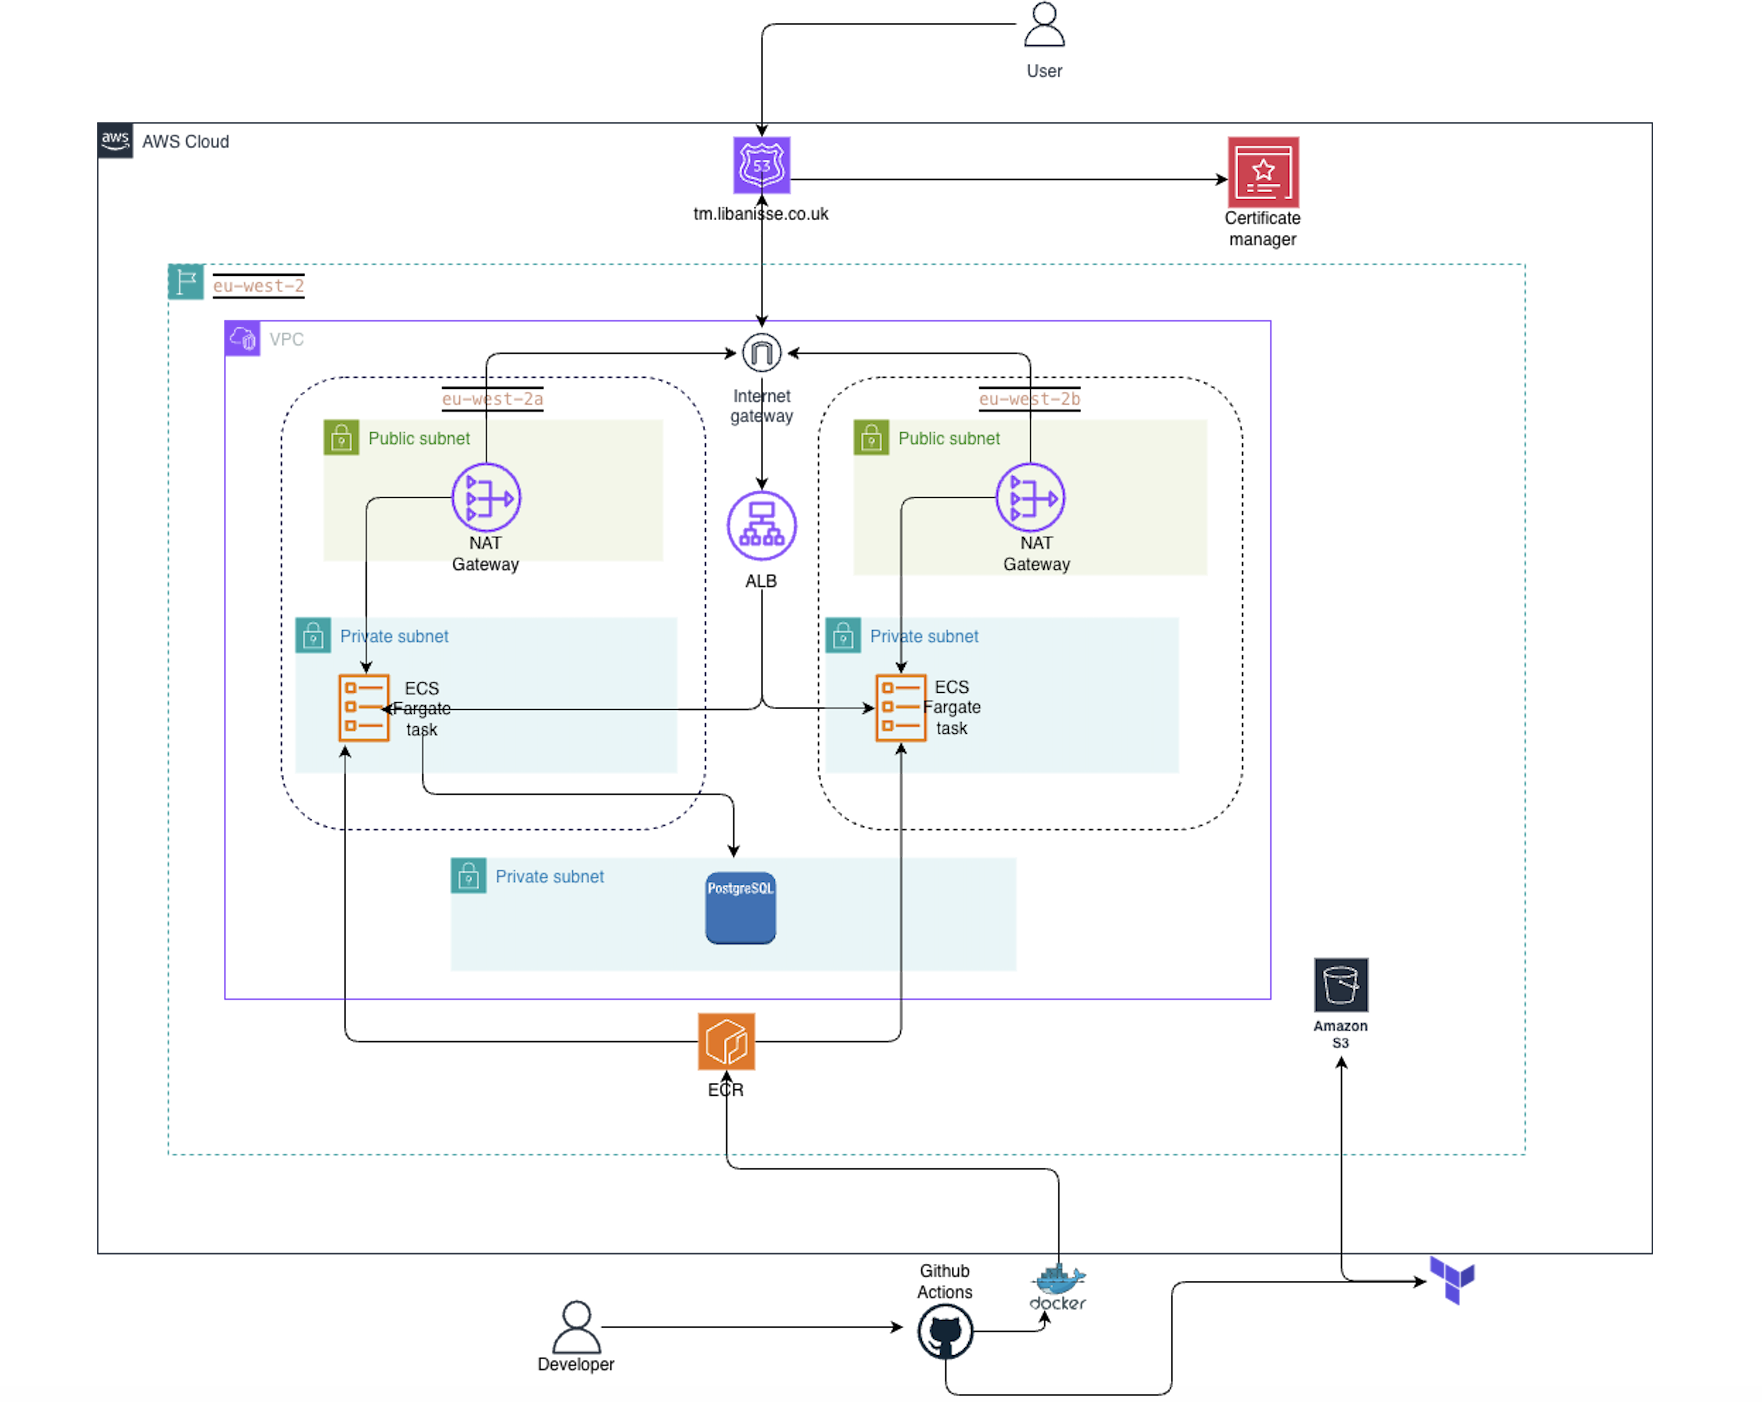
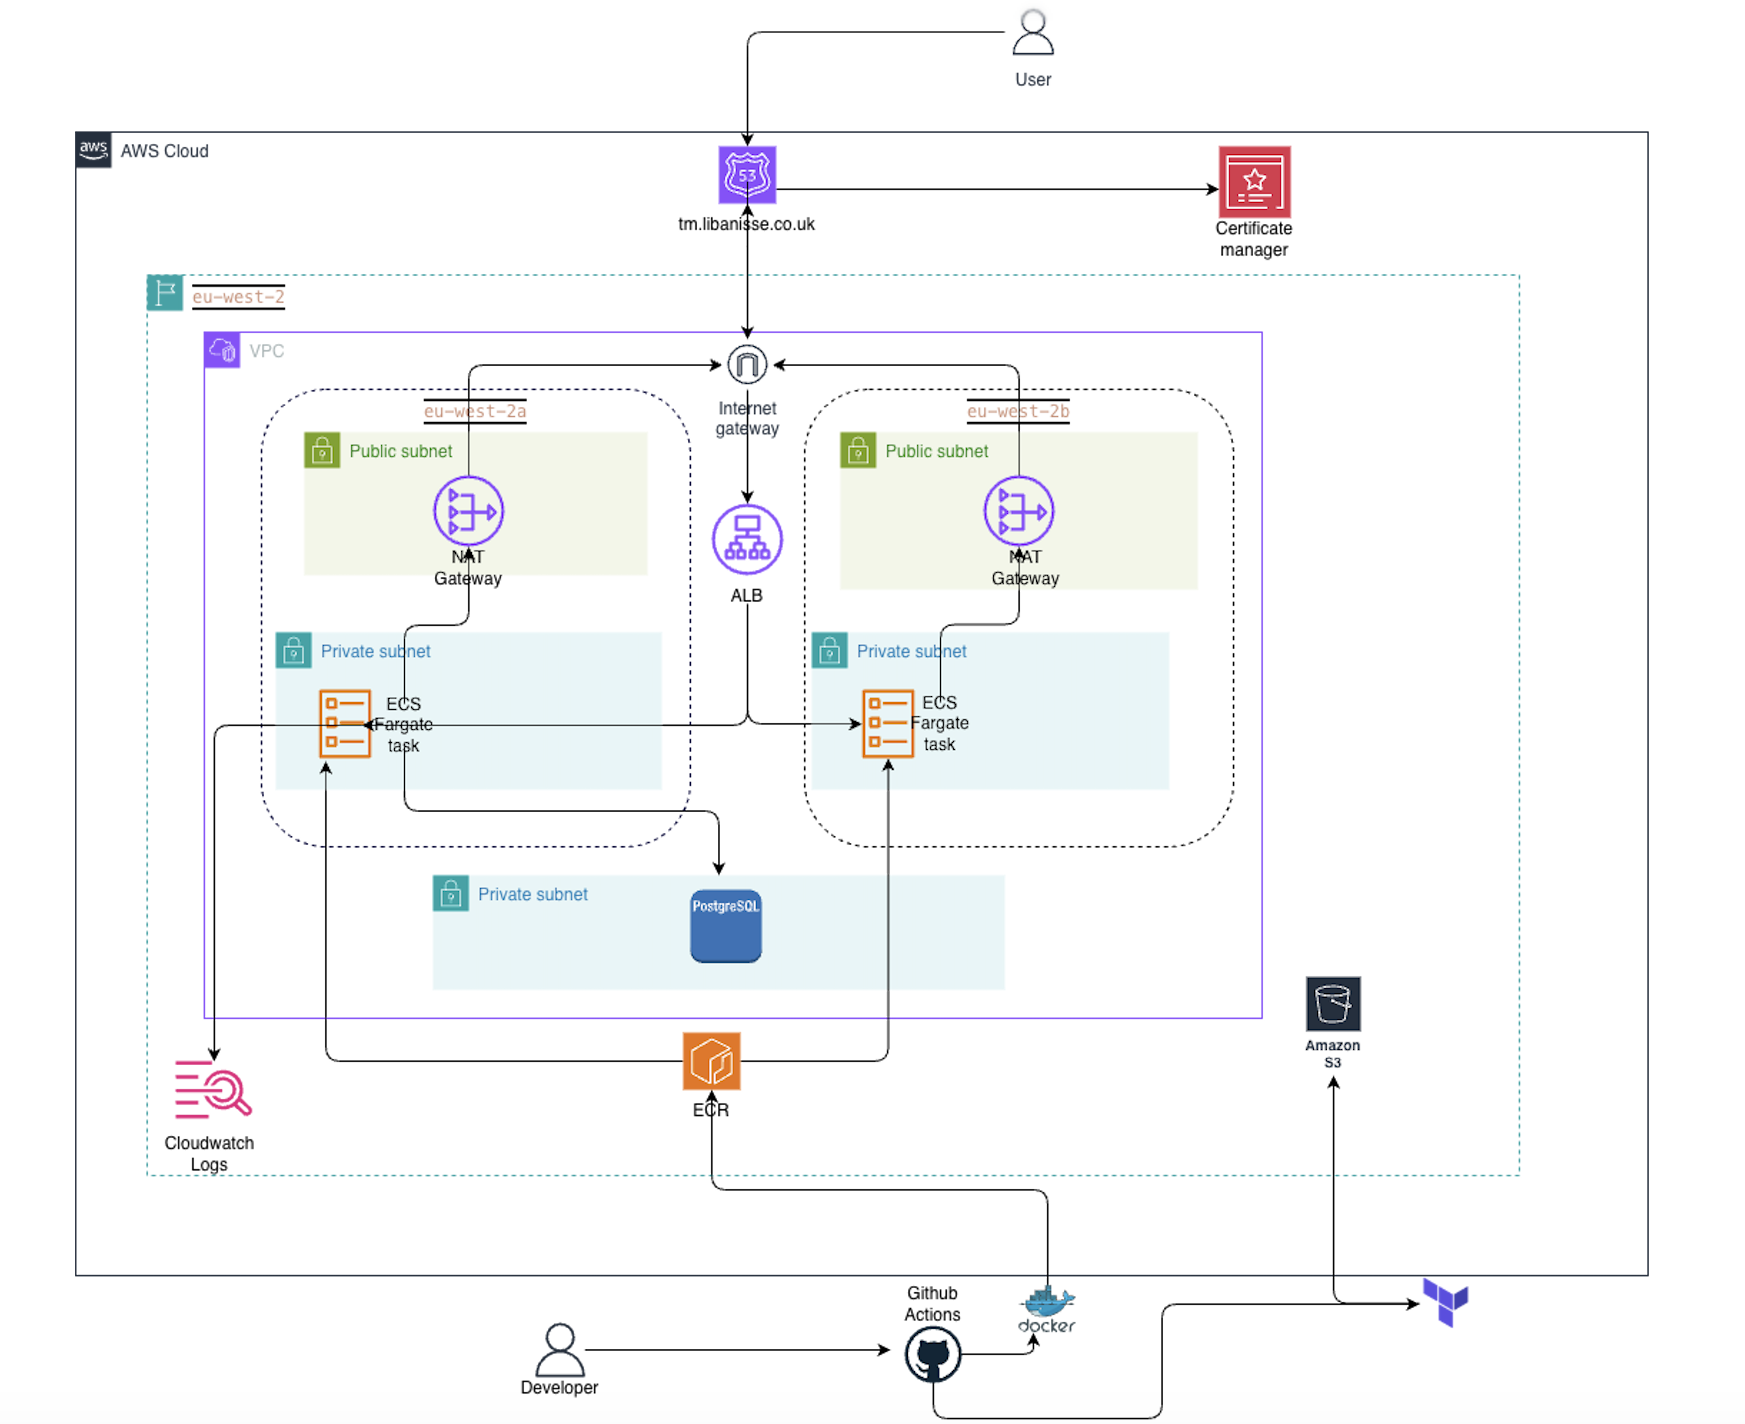
Added new architecture diagram README Complete

diff --git a/README.md b/README.md
@@ -134,10 +134,9 @@ Required GitHub repository variables and secrets:
 
 ```text
 AWS_ROLE_ARN
-ECS_TASK_DEFINITION_FAMILY
-ECS_CONTAINER_NAME
-ECS_SERVICE
-ECS_CLUSTER
+AWS_REGION
+ECR_REPOSITORY
+TF_WORKING_DIR
 APP_URL
 SLACK_WEBHOOK_URL
 ```